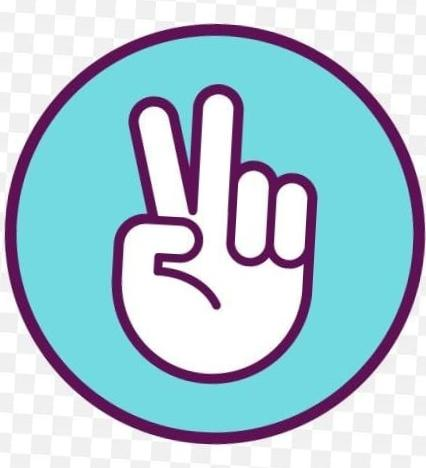
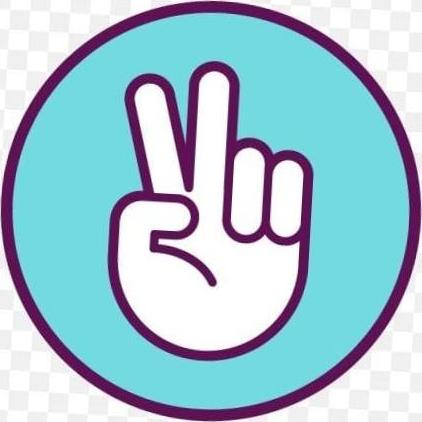
Rock Paper Scissor

Changed region(s): [[0.0, 0.0, 1.0, 1.0], [0.2464, 0.1232, 0.7701, 0.8626]]

diff --git a/scissor.js b/scissor.js
@@ -29,7 +29,7 @@ const showWinner = (userWin, userChoice,compChoice
         computerScore++;
         compScorePara.innerText = computerScore;
       
-                msg.innerText = `You Lost! Your ${compChoice} beats ${userChoice}`;
+                msg.innerText = `You Lost! Computers ${compChoice} beats ${userChoice}`;
                 msg.style.backgroundColor="red";
 
     }